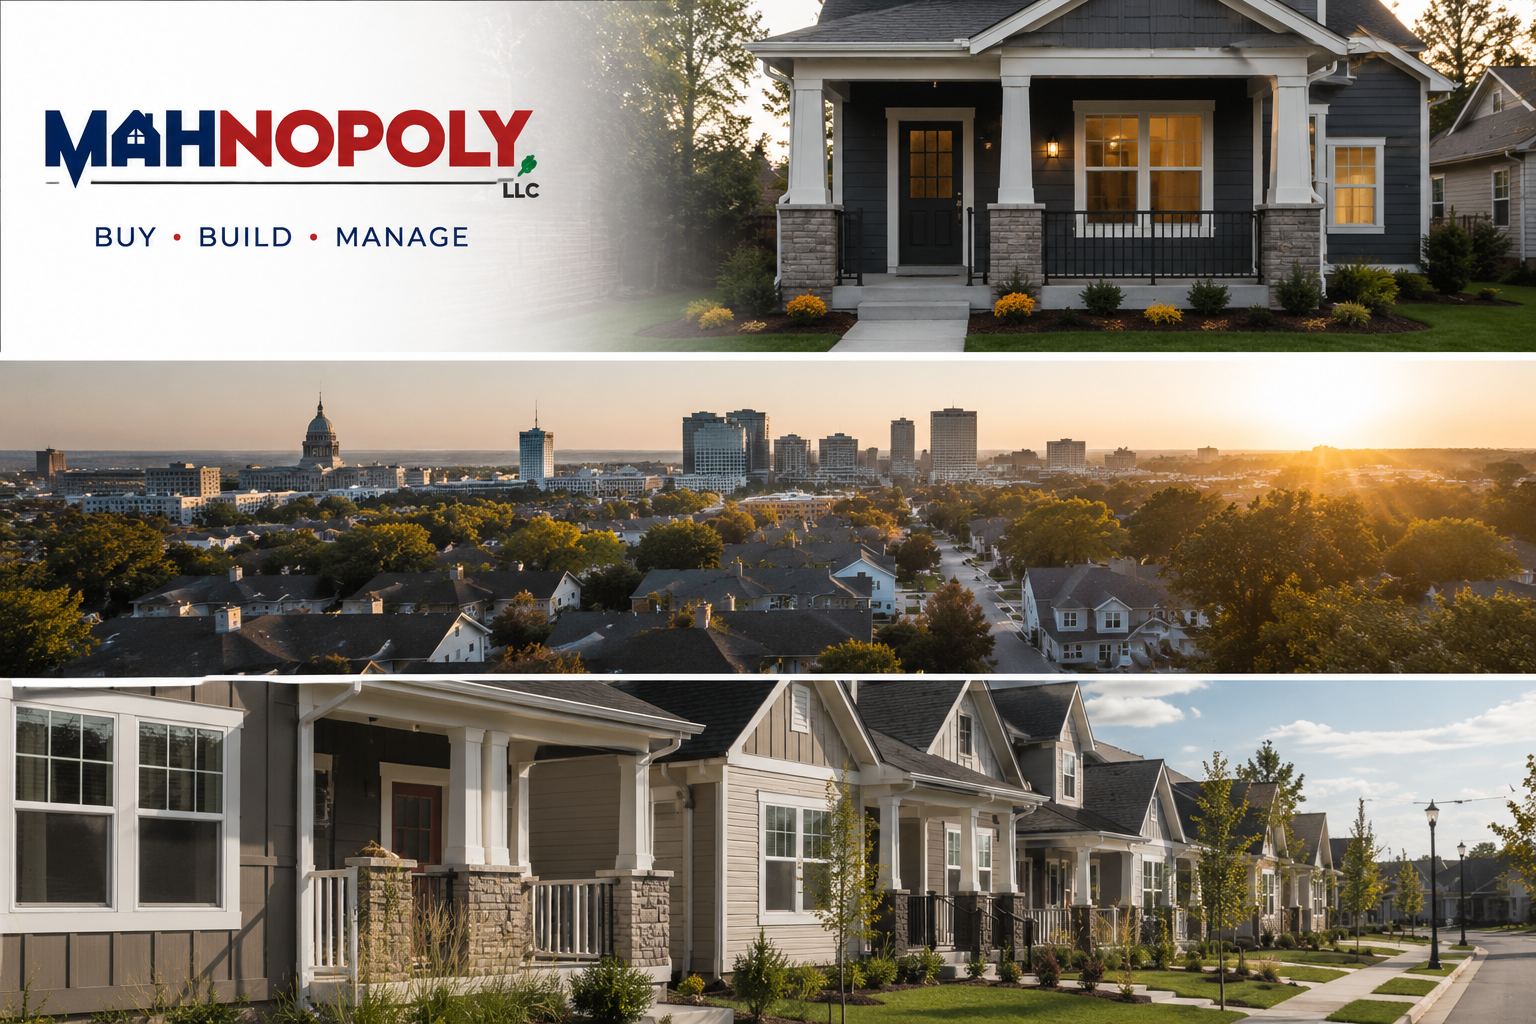
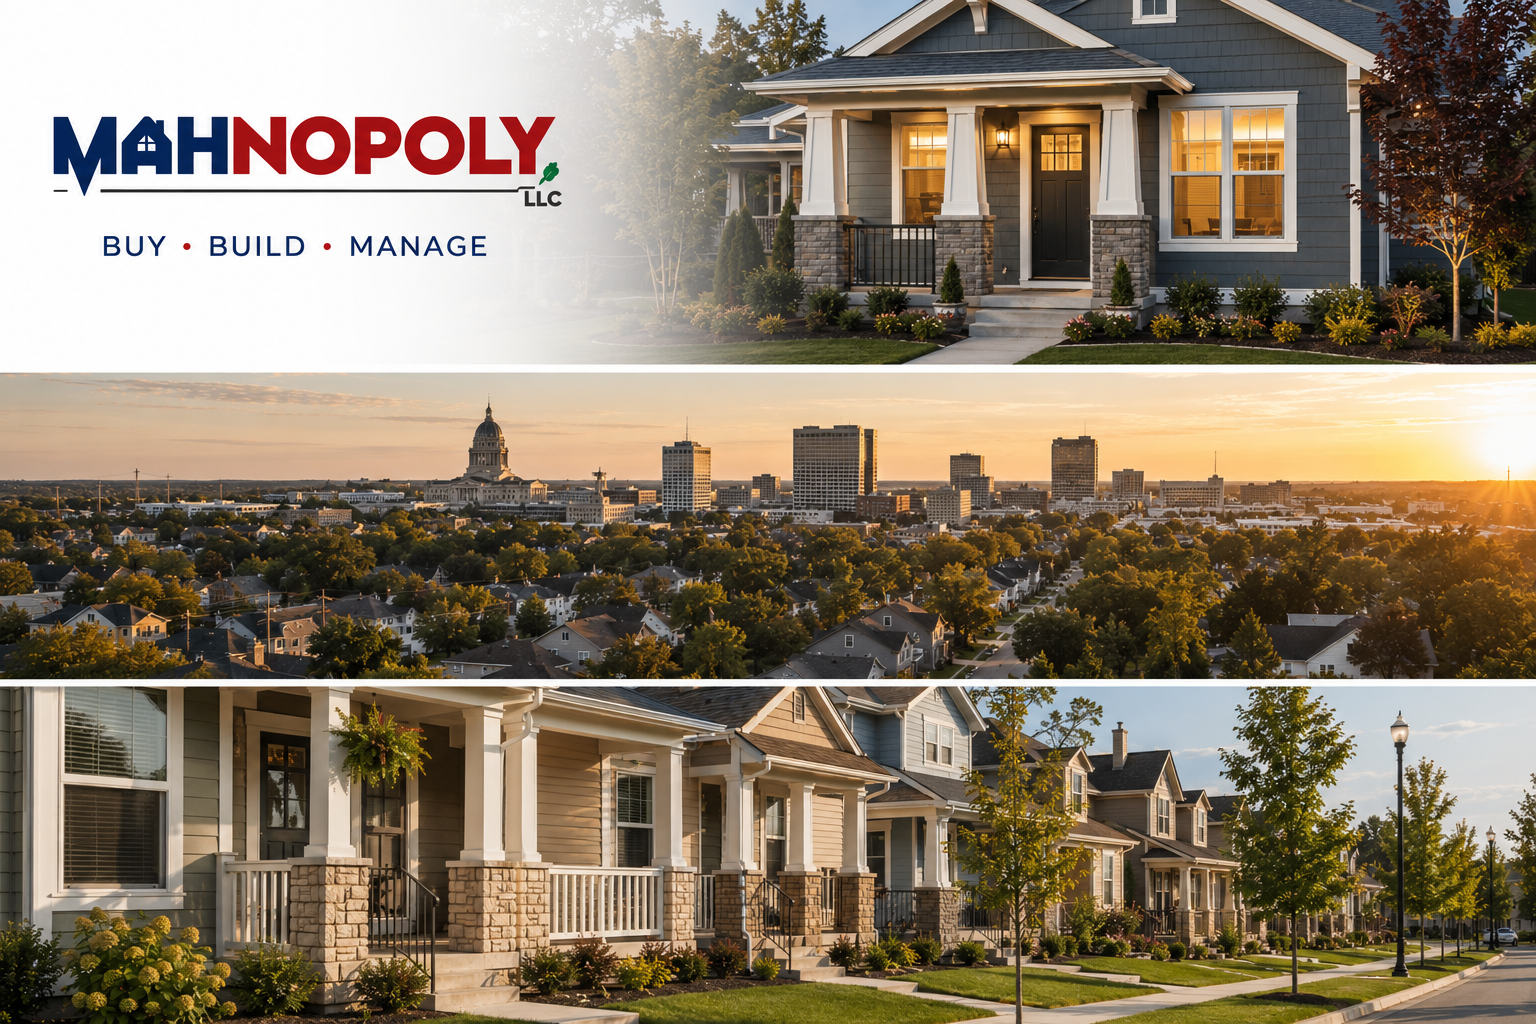
Real photos for home, epoxy, and about
- home-banner.png: refreshed reproduction of the same branded banner
  (logo, front porch, skyline, new construction) — kept the baked-in
  logo/text look here, William's call, unlike epoxy/about below.
- epoxy-flyer.png: replaced the branded flyer with a plain photorealistic
  garage/epoxy-floor photo, no text or logo baked in. Updated the alt
  text and hero comment to match — the old copy described text overlays
  that no longer exist in the image.
- about-photo.png: fills the About page's "family photo" placeholder
  William didn't want to use — a generic Topeka, Kansas street scene
  instead, no real people depicted. Same hero-photo treatment as
  home/epoxy (natural aspect ratio, no forced crop), replacing the old
  PhotoPlaceholder box entirely.

All three are 1536x1024 (3:2) — the image tool's fixed output
resolution rather than the 1800x1200 originally asked for, but same
aspect ratio and plenty sharp at the ~900px/736px display widths these
render at, so used as-is with no reprocessing.

diff --git a/src/app/(site)/epoxy/page.tsx b/src/app/(site)/epoxy/page.tsx
@@ -43,9 +43,9 @@ export default function EpoxyPage() {
   return (
     <>
       <section className="hero">
-        {/* Visually hidden — the flyer image below carries the visible
-            headline/tagline, but the page still needs a real H1 for SEO
-            and screen readers. */}
+        {/* Visually hidden — William's call was a lean hero with just the
+            photo and CTA, no visible headline text. Kept as a real H1 for
+            SEO and screen readers even though nothing renders on screen. */}
         <h1 className="sr-only">Epoxy Flooring in Topeka, Kansas</h1>
         <div
           style={{
@@ -59,7 +59,7 @@ export default function EpoxyPage() {
         >
           <Image
             src="/epoxy-flyer.png"
-            alt="Mahnopoly Epoxy LLC — epoxy flooring in Topeka, Kansas. Built to take a beating, finished to impress. A finished garage floor with a dark speckled epoxy coating and matching black cabinetry, alongside the highlights: built to last, easy to clean, looks amazing, installed right."
+            alt="A finished garage in Topeka, Kansas with a glossy dark speckled epoxy floor coating reflecting the overhead lighting, dark cabinetry and tool storage along the wall, and natural light through a window."
             width={1536}
             height={1024}
             style={{ width: "100%", height: "auto", display: "block" }}

diff --git a/src/app/(site)/about/page.tsx b/src/app/(site)/about/page.tsx
@@ -1,15 +1,31 @@
-import PhotoPlaceholder from "@/components/PhotoPlaceholder";
+import Image from "next/image";
 
 export const metadata = { title: "About | Mahnopoly" };
 
-// Real content pending from William — see docs/plan.md. Structure is
-// built so filling this in later is a content swap, not new layout work.
+// Real photo is in; the copy below is still pending from William — see
+// docs/plan.md.
 export default function AboutPage() {
   return (
     <div style={{ maxWidth: 800, margin: "0 auto", padding: "3rem 2rem" }}>
       <h1 style={{ marginBottom: "1.5rem" }}>About Mahnopoly</h1>
 
-      <PhotoPlaceholder label="family photo" className="big" height={320} />
+      <div
+        style={{
+          borderRadius: 8,
+          overflow: "hidden",
+          border: "1px solid var(--border)",
+          lineHeight: 0,
+        }}
+      >
+        <Image
+          src="/about-photo.png"
+          alt="A tree-lined residential street in Topeka, Kansas at golden hour, with established homes and mature trees along the sidewalk."
+          width={1536}
+          height={1024}
+          style={{ width: "100%", height: "auto", display: "block" }}
+          sizes="(max-width: 800px) 100vw, 736px"
+        />
+      </div>
 
       <div style={{ marginTop: "2rem", color: "#6b7280" }}>
         <p>
